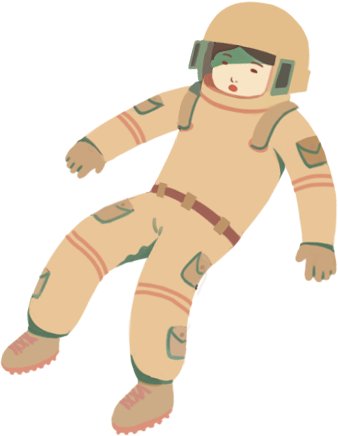
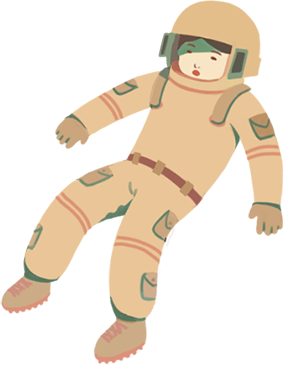
s

diff --git a/sketch.js b/sketch.js
@@ -16,8 +16,9 @@ function draw()
     var duration = 8000;
     var timing = (new Date()%duration)/duration;
 
-    image(img2,434 + Math.cos(timing*2*PI)*25+ Math.cos(timing*2*PI)*5,           // x좌표
-              944 + Math.sin(timing*2*PI)*25+ Math.cos(timing*2*PI)*5);           // y좌표
+    //남자
+    image(img2,365 + Math.cos(timing*2*PI)*25+ Math.cos(timing*2*PI)*5,           // x좌표
+    844 + Math.sin(timing*2*PI)*25+ Math.cos(timing*2*PI)*5);                     // y좌표
   
 }
 
